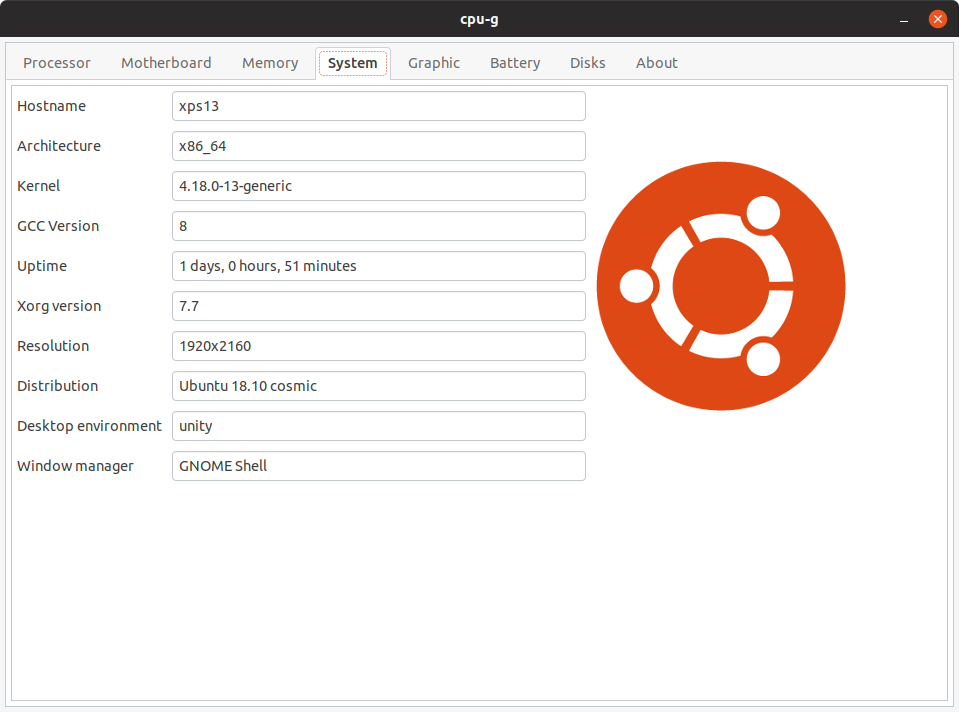
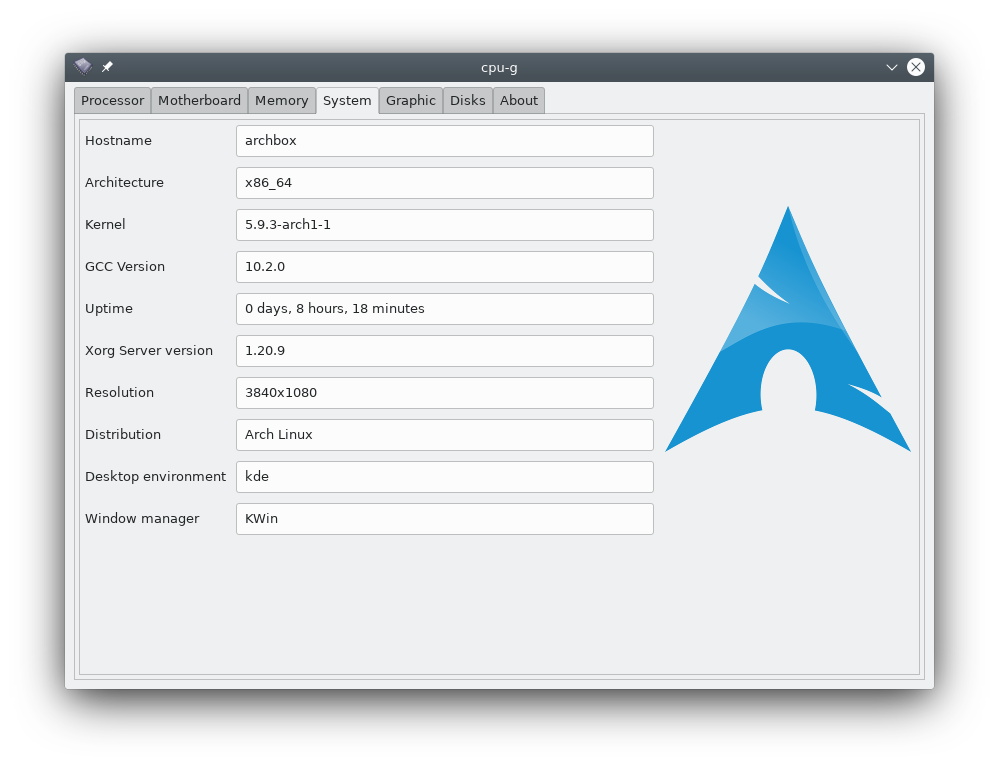
feat(Investigator): replace classic xorg version with xorg server version

diff --git a/src/cpug.py b/src/cpug.py
@@ -604,14 +604,14 @@ class CPUG(Gtk.Window):
                        xoptions=Gtk.AttachOptions.FILL,
                        yoptions=Gtk.AttachOptions.FILL,
                        xpadding=5, ypadding=5)
-        label = Gtk.Label(_('Xorg version'))
+        label = Gtk.Label(_('Xorg Server version'))
         label.set_alignment(0, 0.5)
         table41.attach(label, 0, 1, 5, 6,
                        xoptions=Gtk.AttachOptions.FILL,
                        yoptions=Gtk.AttachOptions.FILL,
                        xpadding=5, ypadding=5)
-        self.xorg_version = Gtk.Entry()
-        table41.attach(self.xorg_version, 1, 2, 5, 6,
+        self.xorg_server_version = Gtk.Entry()
+        table41.attach(self.xorg_server_version, 1, 2, 5, 6,
                        xoptions=Gtk.AttachOptions.FILL,
                        yoptions=Gtk.AttachOptions.FILL,
                        xpadding=5, ypadding=5)
@@ -1169,7 +1169,7 @@ cpu-g-donde-ver-hardware-instalado/')
         self.hostname.set_text(os.uname()[1])
         self.architecture.set_text(os.uname()[4])
         self.kernel.set_text(os.uname()[2])
-        self.xorg_version.set_text(inv.xver())
+        self.xorg_server_version.set_text(inv.x_server_version())
         self.screen_resolution.set_text(inv.resolution())
         self.desktop_environment.set_text(inv.desktop_environment())
         self.window_manager.set_text(inv.get_window_manager())

diff --git a/src/investigator.py b/src/investigator.py
@@ -119,6 +119,7 @@ class Investigator():
                 return "kde"
         return "unknown"
 
+    @staticmethod
     def convert2int(value):
         try:
             return int(value)
@@ -325,12 +326,9 @@ class Investigator():
             gcc_version = _('N/A')
         return gcc_version
 
-    def xver(self):
-        try:
-            xver_version = self.execute('/usr/bin/apt-cache show xorg')
-        except FileNotFoundError:
-            xver_version = ""
-        ans = re.findall("Version: 1:(.*)\+", xver_version)
+    def x_server_version(self):
+        xver_version = self.execute('cat /var/log/Xorg.0.log | head')
+        ans = re.findall("X Server (.*)", xver_version)
         if ans:
             return ans[0]
         return _('N/A')
@@ -486,7 +484,7 @@ if __name__ == '__main__':
     print(inv.mobo('chassis_type'))
     print(inv.raminfo())
     print(inv.distro())
-    print(inv.xver())
+    print(inv.x_server_version())
     print(inv.gccver())
     print(inv.disksinfo())
     print(inv.get_window_manager())
